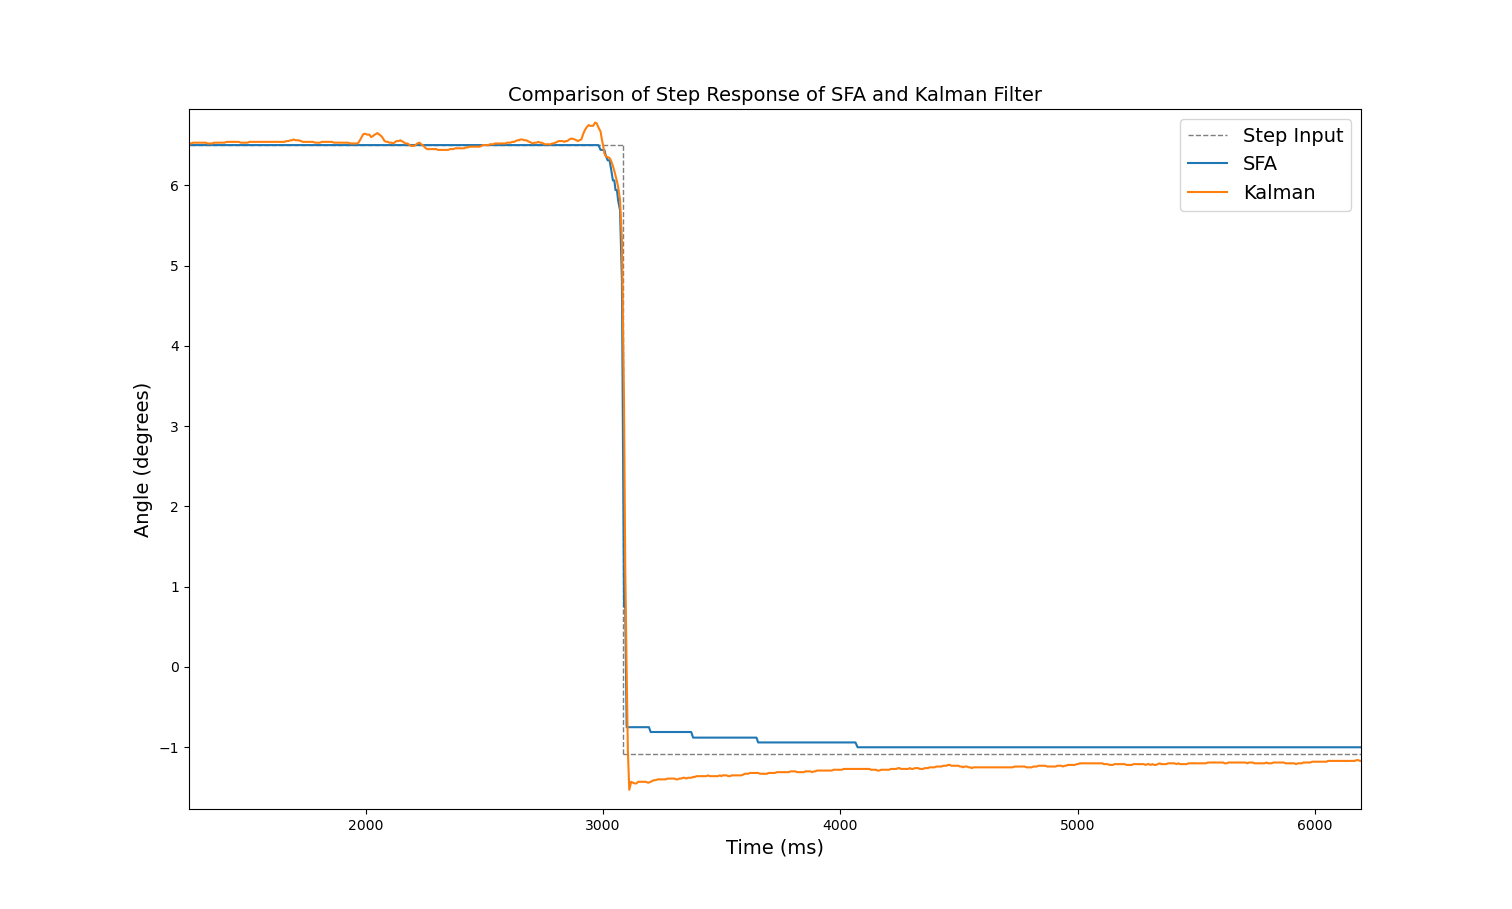
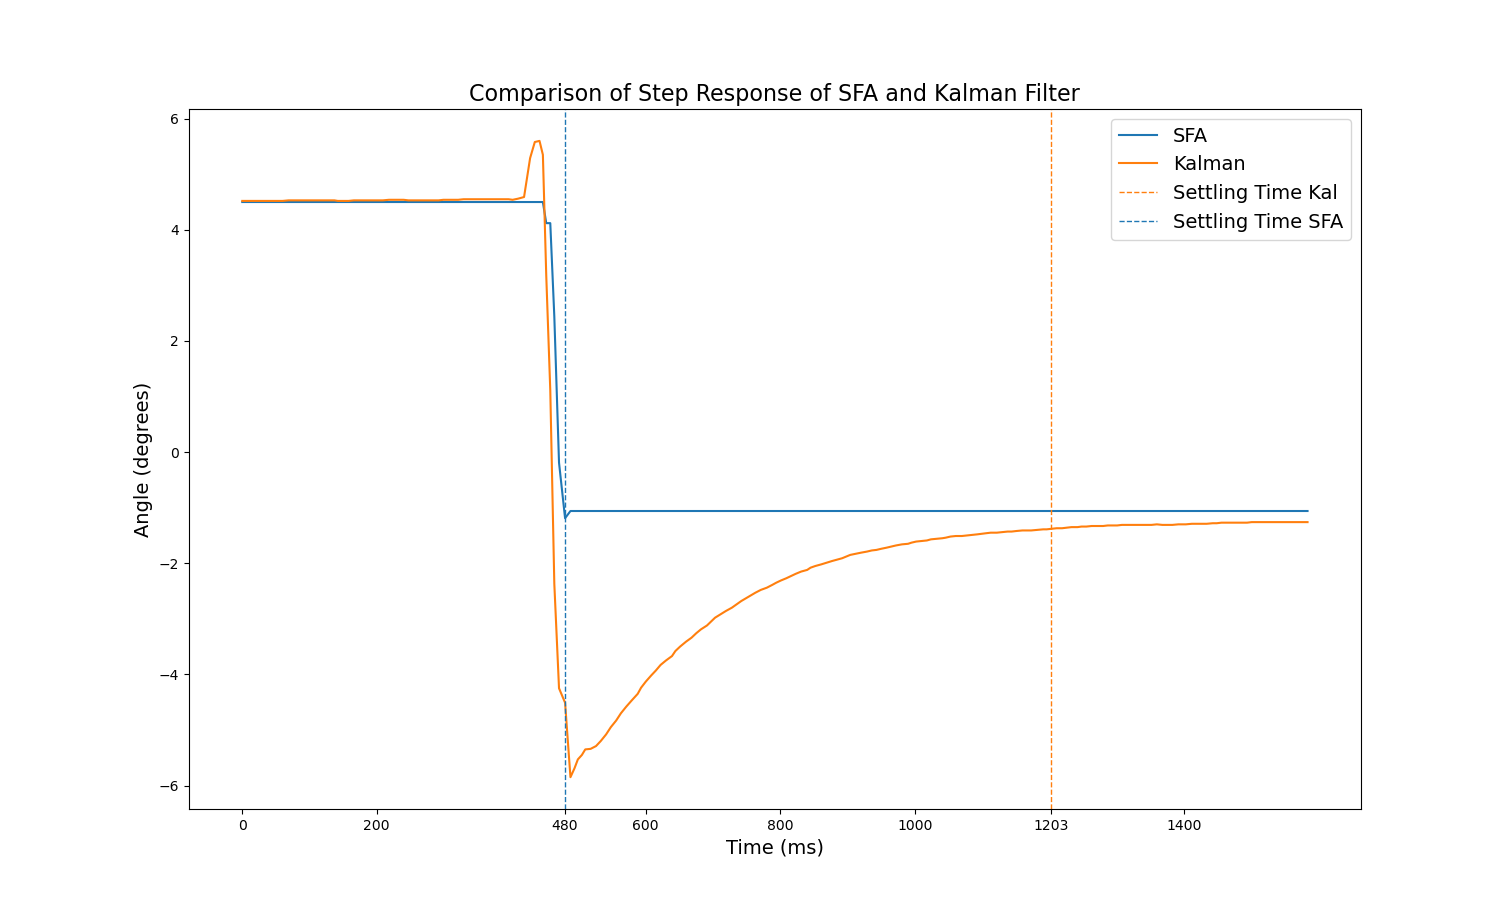
tuning segway mode and updating filter testing small angle

diff --git a/Python/filter test/filter testing small angle/plot_bno_data.py b/Python/filter test/filter testing small angle/plot_bno_data.py
@@ -56,27 +56,21 @@ def plot_from_csv(path,settle_time_kal, settle_time_sfa, step_time):
     # Plotting Angle vs Time #
     df['Relative Time'] = df['Time'] - df['Time'][0]
     plt.plot(df['Relative Time'],df['SFA'], label='SFA')
-    # plt.plot(df['Relative Time'],df['Kalman'], label='Kalman')
-    # plt.plot(df['Relative Time'], df['Acceleration'])
-    # plt.axvline(x=settle_time_kal+step_time, color='tab:orange', linestyle='--', linewidth=1,label='Settling Time Kal')
-    # plt.axvline(x=settle_time_sfa+step_time, color='tab:blue', linestyle='--', linewidth=1,label='Settling Time SFA')
-    # xticks = [i for i in range(0,df['Relative Time'].iloc[-1],500) if np.abs(i-settle_time_kal-step_time) > 400 and np.abs(i-settle_time_sfa-step_time) > 400]
-    # xticks = list(range(0,df['Relative Time'].iloc[-1],200))
-    # xticks.extend([settle_time_kal+step_time, settle_time_sfa+step_time])
-    # plt.xticks(xticks)
-    # plt.axvline(x=step_time, color='black', linestyle='--', linewidth=1)
-    # plt.text(settle_time_kal+step_time,0,'Settling Time For Kalman Filter')
-    # plt.text(settle_time_sfa+step_time,0,'Settling Time For SFA')
-    # plt.text(step_time,0,'Point of Step Input')
+    plt.plot(df['Relative Time'],df['Kalman'], label='Kalman')
+
+    plt.axvline(x=settle_time_kal+step_time, color='tab:orange', linestyle='--', linewidth=1,label='Settling Time Kal')
+    plt.axvline(x=settle_time_sfa+step_time, color='tab:blue', linestyle='--', linewidth=1,label='Settling Time SFA')
+    # plt.axvline(x=step_time, color='black', linestyle='--', linewidth=1, label='Step time')
+
+    xticks = [i for i in range(0,df['Relative Time'].iloc[-1],200) if np.abs(i-settle_time_kal-step_time) > 100 and np.abs(i-settle_time_sfa-step_time) > 100]
+    xticks.extend([settle_time_kal+step_time, settle_time_sfa+step_time])
+    plt.xticks(xticks)
 
 # Plots all the Sensor reading plots individually
 def small_angle_plots():
     DATA_PATH = './Python/filter test/filter testing small angle/SensorData'
     files = [f for f in os.listdir(DATA_PATH) if os.path.isfile(os.path.join(DATA_PATH,f))]
     for path in files:
-        # plt.hlines(y=plot_max[i],xmin=0,xmax=plot_step_time[i], color='tab:gray', linestyle='--',linewidth=1, label='_nolegend_')
-        # plt.vlines(x=plot_step_time[i],ymin=angle_offsets[i],ymax=plot_max[i], color='tab:gray', linestyle='--',linewidth=1,label='_nolegend_')
-        # plt.hlines(y=angle_offsets[i],xmin=plot_step_time[i],xmax=plot_end_time[i], color='tab:gray', linestyle='--',linewidth=1, label='Step Input')
         path = os.path.join(DATA_PATH,path)
         settle_time_kal,_,settle_time_sfa,_,step_time,_,_ = find_overshoot(path)
         plot_from_csv(path, settle_time_kal, settle_time_sfa, step_time)
@@ -86,8 +80,7 @@ def small_angle_plots():
         plt.title('Comparison of Step Response of SFA and Kalman Filter', fontsize=16)
         manager = plt.get_current_fig_manager()
         manager.full_screen_toggle()
-        # plt.grid()
-    plt.show()
+        plt.show()
 
 # Finds overshoot and settling time for the Kalman filter and SFA
 def find_overshoot(path):

diff --git a/Arduino Code/Code/main_bisteer/bisteer.h b/Arduino Code/Code/main_bisteer/bisteer.h
@@ -28,7 +28,7 @@ double sampling_time = loopTimeConstSec;
 #define r  0.03         // Radius of wheels in m //
 
 /**** IMU Definition ****/
-#define phi_offset 3.9 //2.7>  < 4 Lower Phi Offset in Direction of Teensy
+#define phi_offset 4.9 //2.7>  < 4 Lower Phi Offset in Direction of Teensy
 
 sensors_event_t a, g, temp;
 float ax1, ay1, az1;
@@ -87,10 +87,10 @@ double integral_wheel_F = 0;
 double integral_wheel_R = 0;
 
 /**** Segway Controller ****/
-#define Kp_lean 300 //600
-#define Kd_lean 0 //400
-#define Kd_wheel 0
-#define Ki_lean 0
+#define Kp_lean 125 //600
+#define Kd_lean 20 //400
+#define Kd_wheel 1
+#define Ki_lean 30
 double int_lean = 0;
 double Uf = 0;
 double Ur = 0;
@@ -158,12 +158,12 @@ lowpass_filter lpf_rear_steer(2);
 lowpass_filter lpf_rear_wheel(2); 
 
 /**** Motor Compensation ****/
-#define frontWheelStaticDec -390
-#define frontWheelStaticInc 300
-#define frontWheelKineticDec 266
-#define frontWheelKineticInc -257
+#define frontWheelStaticDec -184
+#define frontWheelStaticInc 221
+#define frontWheelKineticDec 142
+#define frontWheelKineticInc -133
 
-#define rearWheelStaticDec -390
-#define rearWheelStaticInc 300
-#define rearWheelKineticDec 270
-#define rearWheelKineticInc -254
+#define rearWheelStaticDec -195
+#define rearWheelStaticInc 186
+#define rearWheelKineticDec 129
+#define rearWheelKineticInc -133
